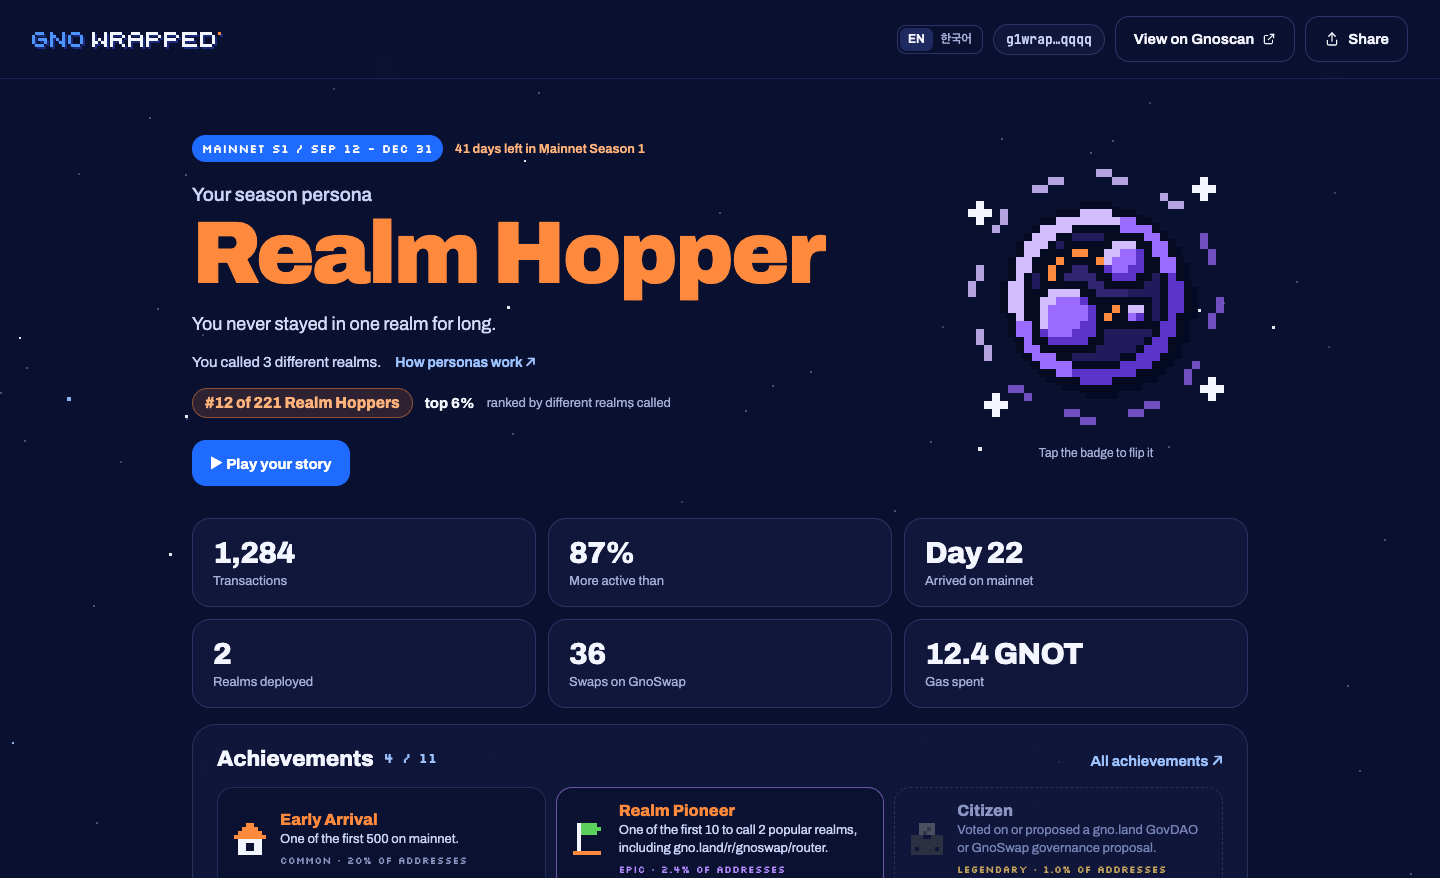
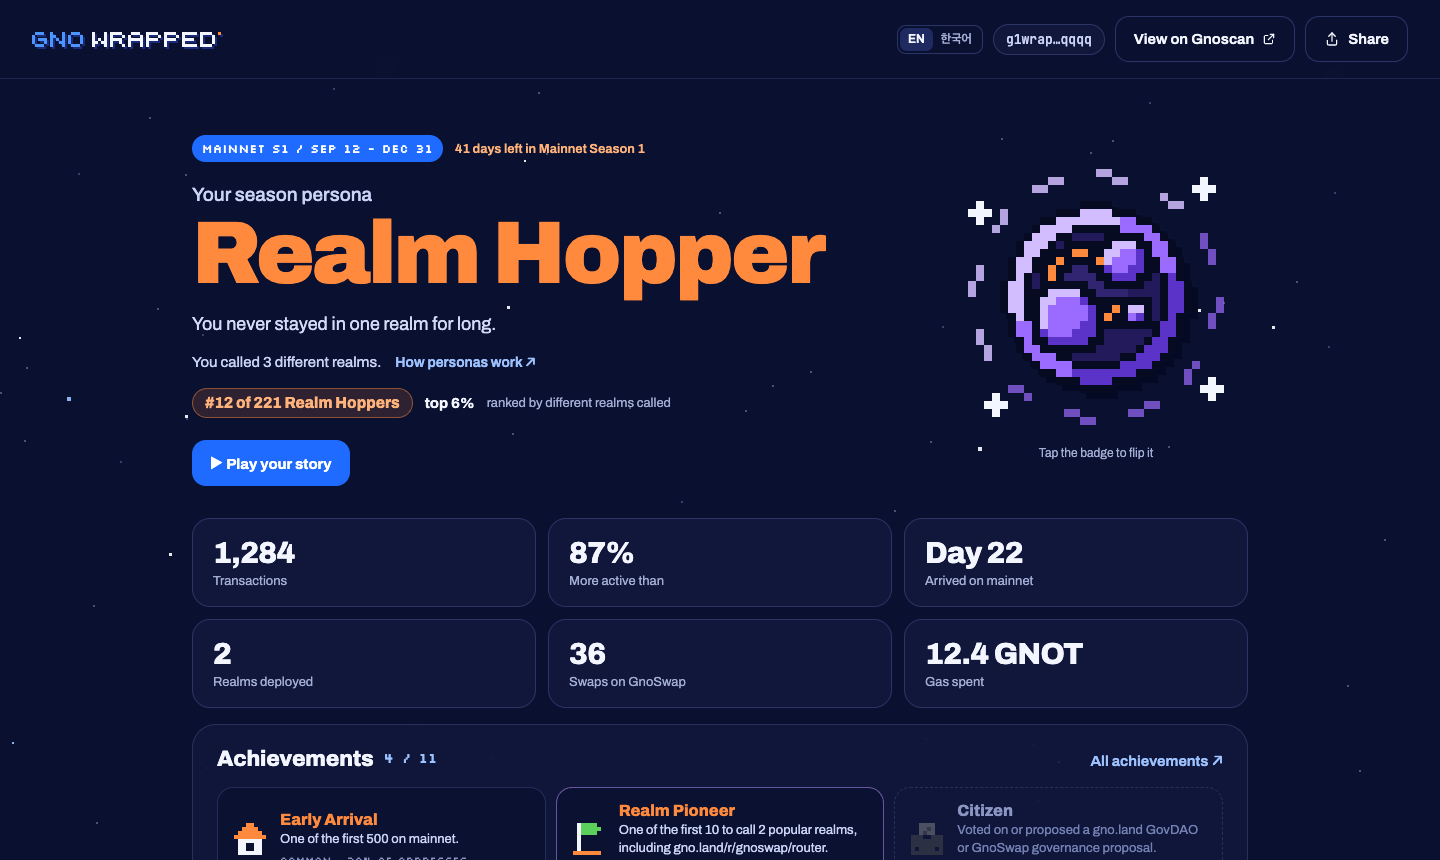
docs: a new demo GIF and a tidier README (#21)
- demo.gif: retaken (16s, 800×450): the home page's persona grid, a
  recap's badge tilting and flipping, the collection by rarity and a
  persona opened over the list.
- Key Features in three groups (your recap, sharing, around the
  season), with related bullets merged: clock, calendar and arrival as
  one; the collection and Next up under achievements.
- Screenshots in one section: home, recap, collection and persona page
  as a 2×2 grid, the share card and trading card side by side at the
  same height, then story mode.
- collection.png retaken at 16:10 and recap.png cropped to 1440×860, so
  each row of the grid has one height; personas.png is no longer used
  and goes.

diff --git a/README.md b/README.md
@@ -14,69 +14,75 @@ and a share card for X and Discord. It follows the chain live, so new activity s
 > Gno Wrapped is an independent community project, not an official gno.land product.
 > It reads only public on-chain data.
 
-![Demo: the recap's badge tilting with its pixel foil, cards lighting up around the pointer, the achievement collection and story mode](docs/demo.gif)
+![Demo: the home page and its nine personas, a recap's badge tilting and flipping, the achievement collection by rarity, and a persona opened over the list](docs/demo.gif)
 
 ## Key Features
 
+### Your recap
+
 - **Season persona**: one of nine, picked by rules checked in order, with the reason in your own
-  numbers and your rank among addresses with the same persona.
+  numbers. The badge tilts with a pixel foil and flips to show your rank among the same persona.
 - **Achievements**: eleven to collect, from Early Arrival to Citizen (a GovDAO or GnoSwap governance vote),
-  Regular (30 active days), Flawless (20+ transactions, none failed) and Token Gardener (GnoSwap liquidity, staking or GNS delegation).
-- **Collection**: all eleven achievements on your recap, the ones you haven't earned yet as grey
-  silhouettes with their rule, a count (7 / 11), and how rare each one is (Legendary for 1% of
-  addresses or fewer, then Epic, Rare, Common).
-- **Persona badge**: tilts toward the pointer with a pixel holographic foil, and flips to show where
-  you stand among that persona.
-- **Next up**: while the season is live, the achievements still in reach and how far along you are
-  (e.g. 77 of 100 transactions, 2 of 3 days in a row).
-- **Clock**: your transactions by hour of day in your own time zone, the busiest hour, and whether
-  you're an Early Bird, an Afternoon or Evening Regular, or a Night Owl.
-- **Arrival and activity**: your mainnet day and arrival order, a season timeline, transactions,
-  percentile and success rate.
-- **Calendar**: every day of the season and your longest streak; click a day for its first 100
-  transactions, linked to [Gnoscan](https://gnoscan.io).
+  Regular (30 active days), Flawless (20+ transactions, none failed) and Token Gardener (GnoSwap liquidity,
+  staking or GNS delegation). Each shows how rare it is (Legendary for 1% of addresses or fewer, then Epic,
+  Rare, Common); the rest wait as grey silhouettes with their rule, and while the season is live,
+  Next up shows how close you are (e.g. 77 of 100 transactions).
+- **Your season in numbers**: arrival day and order, a timeline, transactions, percentile and success rate;
+  a calendar with your longest streak (click a day for its transactions, linked to [Gnoscan](https://gnoscan.io));
+  your transactions by hour in your own time zone (Early Bird, Afternoon or Evening Regular, Night Owl).
 - **Realms, GnoSwap and governance**: your top realms and your place among each one's callers
-  (#37 of 1,204, by first call); swaps by week, your favorite pair, positions,
-  fees and rewards; votes, proposals and GNS delegations.
-- **Builder report**: each realm you deployed, and how many other addresses called it.
-- **Story mode**: the recap as full-screen cards, one at a time. Add `?story` to a recap link.
-- **Sharing**: a post for X and Discord, a 1200×630 preview card, a 1080×1920 image and a 1080×1350
-  trading card, all with your achievement icons. Share links never carry your address ([Privacy](#privacy)).
-- **Season's end**: once the season is over, story mode says so and ends with a certificate of it
-  (persona, transactions, achievements) to share or save.
-- **Compare**: two share links side by side, with neither address shown.
-- **Several wallets**: up to five of your addresses added up on one page (`/s1/wallets/<a>,<b>`):
-  transactions, days, hours, realms, GnoSwap and gas combined, personas and achievements per wallet.
+  (#37 of 1,204, by first call); swaps by week, your favorite pair, positions, fees and rewards;
+  votes, proposals and GNS delegations. Builders also see how many addresses called each realm they deployed.
+- **Story mode**: the recap as full-screen cards (`?story` on a recap link). Once the season is over,
+  it ends with a certificate to share or save.
 - **Since your last visit**: what changed since you last opened your recap, kept in your browser only.
+
+### Sharing
+
+- A post for X and Discord, a 1200×630 preview card, a 1080×1920 image and a 1080×1350 trading card,
+  all with your achievement icons. Share links never carry your address ([Privacy](#privacy)).
+- **Compare**: two share links side by side, with neither address shown.
+
+### Around the season
+
+- **Home page**: connect Adena or paste an address, next to the season's live numbers and the nine personas.
+- **Persona pages**: `/personas` lists the nine with their rules; `/personas/<id>` shows how the addresses
+  with that persona spent the season (median transactions and active days, busiest time of day, top realms,
+  achievements, how the ranking spreads). From the list, it opens over it.
 - **Season page**: `/season`, the same recap for the whole chain.
-- **Persona pages**: `/personas/<id>` for each persona: its rule and place in the order, how rare it is,
-  and how the addresses with it spent the season (median transactions and active days, busiest time
-  of day, the realms they called most, the achievements they hold, how the ranking spreads and what
-  the top 10% reach). From `/personas` it opens over the list; a link to it opens the page.
+- **Several wallets**: up to five of your addresses added up on one page (`/s1/wallets/<a>,<b>`).
 - **Live, then final**: a countdown to the season's end; after it, recaps are marked final.
-- **English and Korean**: English by default, switched in the top bar.
+- **English and Korean**, switched in the top bar. Every chart has a Table view and reads out the day
+  under the pointer or the arrow keys.
 
-![A recap: persona, rank, headline stats and the start of the achievement collection](docs/screenshots/recap.png)
+The persona and achievement rules are in [`batch/build.go`](batch/build.go) and
+[`batch/achievements.go`](batch/achievements.go).
 
-![The achievement collection: earned ones in colour with their rarity, the rest as grey silhouettes with their rule](docs/screenshots/collection.png)
+## Screenshots
 
-Every chart reads out the day under the pointer or the arrow keys and has a Table view. How personas
-and achievements are decided is on the site's `/personas` page and in [`batch/build.go`](batch/build.go)
-and [`batch/achievements.go`](batch/achievements.go).
+<table>
+  <tr>
+    <td width="50%"><img src="docs/screenshots/intro.png" alt="The home page: connect Adena or paste an address, live season stats, and the nine personas"></td>
+    <td width="50%"><img src="docs/screenshots/recap.png" alt="A recap: persona, rank, headline stats and the start of the achievement collection"></td>
+  </tr>
+  <tr>
+    <td width="50%"><img src="docs/screenshots/collection.png" alt="The achievement collection: earned ones in colour with their rarity, the rest as grey silhouettes with their rule"></td>
+    <td width="50%"><img src="docs/screenshots/persona-detail.png" alt="A persona opened from the list: its rule, rarity and how the addresses with it spent the season"></td>
+  </tr>
+</table>
 
-<p align="center"><img src="docs/screenshots/share-card.png" width="760" alt="Share card shown on X and Discord, with the achievement icons"></p>
-
-<p align="center"><img src="docs/screenshots/trading-card.png" width="360" alt="The 1080x1350 trading card: the persona badge with a foil, the persona, three numbers and the achievements framed by rarity"></p>
+<table>
+  <tr>
+    <td width="69%"><img src="docs/screenshots/share-card.png" alt="Share card shown on X and Discord, with the achievement icons"></td>
+    <td width="31%"><img src="docs/screenshots/trading-card.png" alt="The 1080x1350 trading card: the persona badge with a foil, the persona, three numbers and the achievements framed by rarity"></td>
+  </tr>
+</table>
 
 <p align="center">
-  <img src="docs/screenshots/story-arrival.png" width="250" alt="Story mode on a phone: the mainnet day you arrived">
-  <img src="docs/screenshots/story-achievements.png" width="250" alt="Story mode: the achievements you unlocked">
-  <img src="docs/screenshots/story-persona.png" width="250" alt="Story mode: the season persona">
+  <img src="docs/screenshots/story-arrival.png" width="220" alt="Story mode on a phone: the mainnet day you arrived">
+  <img src="docs/screenshots/story-achievements.png" width="220" alt="Story mode: the achievements you unlocked">
+  <img src="docs/screenshots/story-persona.png" width="220" alt="Story mode: the season persona">
 </p>
-
-![Personas page: nine personas, Validator second](docs/screenshots/personas.png)
-
-![A persona opened from the list: its rule, rarity and how the addresses with it spent the season](docs/screenshots/persona-detail.png)
 
 ## Getting Started
 
@@ -90,8 +96,6 @@ docker compose logs -f ingest                 # follow the chain
 
 Open http://localhost:3000. The first start fetches the whole season from the indexer
 (about 180 range queries, a few minutes, ~20 MB); after that only new blocks.
-
-![The intro page: connect Adena or paste an address, with live season stats and the nine personas](docs/screenshots/intro.png)
 
 Set `SHARE_BASE_URL` in `.env` to the public origin used in share links and preview cards, then
 rebuild the web image (`docker compose up -d --build web`).
